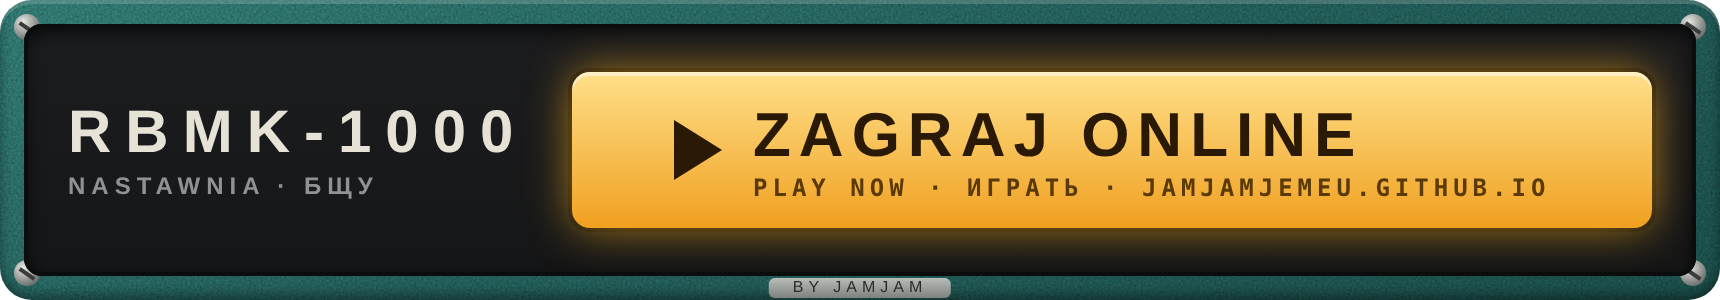
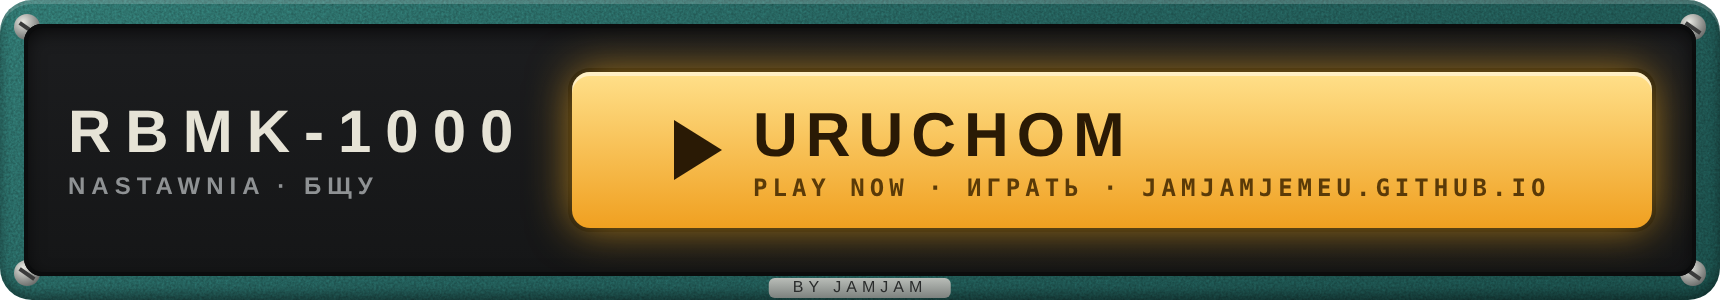
README: button text Uruchom, smaller button

Changed region(s): [[0.4314, 0.36, 0.8012, 0.54]]

diff --git a/README.md b/README.md
@@ -6,8 +6,8 @@
 
 by **JamJam**
 
-<p align="center"><a href="https://jamjamjemeu.github.io/rbmk-1000-simulator/"><img src="docs/play.png" alt="▶ Zagraj online · Play now · Играть" width="860"></a></p>
-<p align="center"><sub>Kliknij, żeby zagrać w przeglądarce – telefon (poziomo) lub komputer · Click to play · Нажмите, чтобы играть<br><a href="https://jamjamjemeu.github.io/rbmk-1000-simulator/">https://jamjamjemeu.github.io/rbmk-1000-simulator/</a></sub></p>
+<p align="center"><a href="https://jamjamjemeu.github.io/rbmk-1000-simulator/"><img src="docs/play.png" alt="▶ Uruchom · Play now · Играть" width="720"></a></p>
+<p align="center"><sub>Kliknij, żeby uruchomić grę w przeglądarce – telefon (poziomo) lub komputer · Click to play · Нажмите, чтобы играть<br><a href="https://jamjamjemeu.github.io/rbmk-1000-simulator/">https://jamjamjemeu.github.io/rbmk-1000-simulator/</a></sub></p>
 
 | Pulpit (PL) | Пульт (RU) |
 |---|---|
